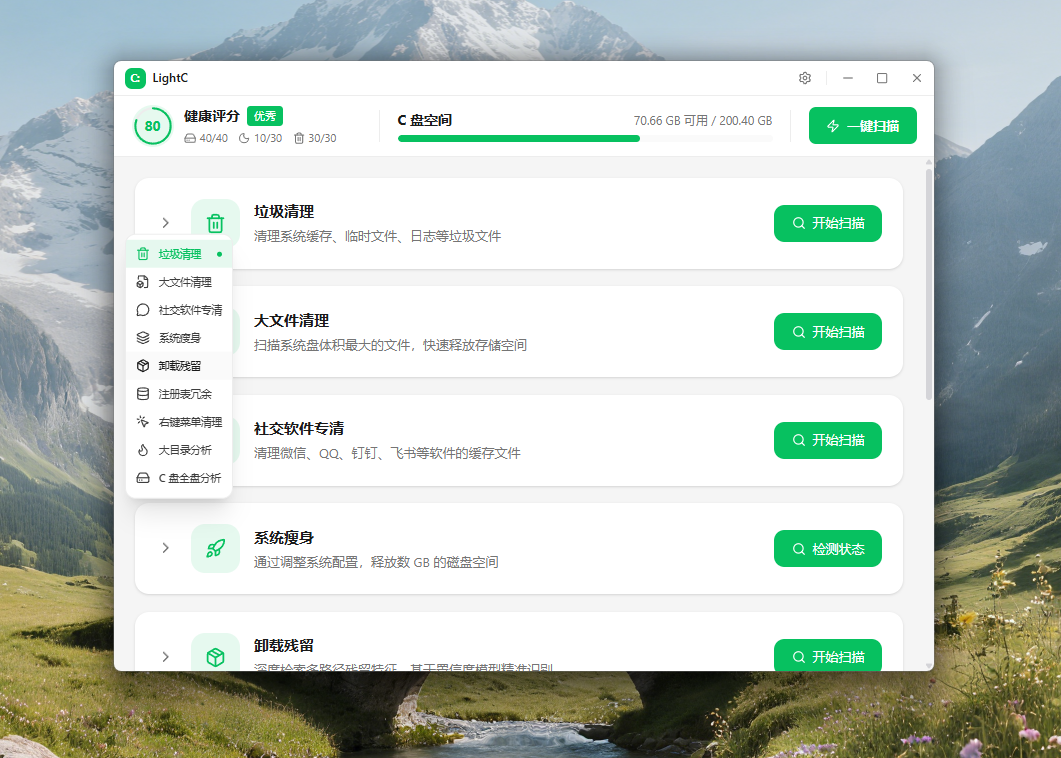
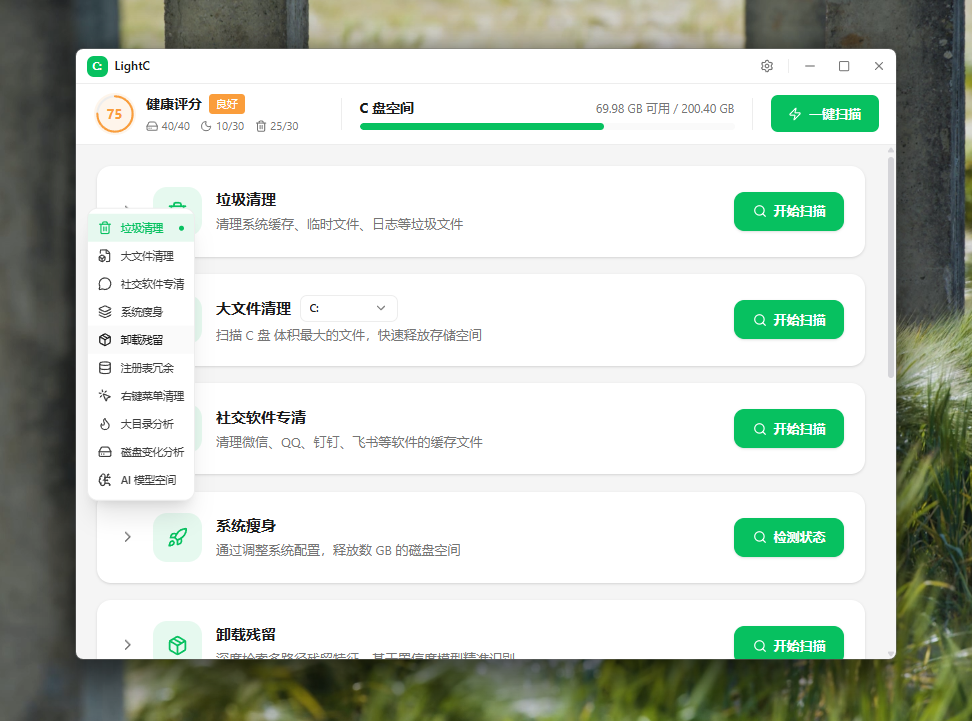
chore: 优化垃圾清理删除动画、避免低端GPU异常占用问题

diff --git a/src/components/modules/JunkCleanModule.tsx b/src/components/modules/JunkCleanModule.tsx
@@ -5,7 +5,7 @@
 
 import { useState, useCallback, useMemo, useEffect, useRef } from 'react';
 import { createPortal } from 'react-dom';
-import { Trash2, Loader2 } from 'lucide-react';
+import { Loader2, Trash2 } from 'lucide-react';
 import { ModuleCard } from '../ModuleCard';
 import { CategoryCard } from '../CategoryCard';
 import { ScanSummary } from '../ScanSummary';
@@ -255,9 +255,9 @@ export function JunkCleanModule({ layoutMode = 'cards', isPageActive = true }: M
 
   return (
     <>
-      {/* 删除进度遮罩 - 使用 Portal 渲染到 body 确保覆盖全屏 */}
+      {/* 删除进度遮罩 - 保留轻量旋转反馈，但避免恢复高成本的全屏背景模糊。 */}
       {isDeleting && createPortal(
-        <div className="fixed inset-0 z-[9999] bg-black/50 backdrop-blur-sm flex items-center justify-center">
+        <div className="fixed inset-0 z-[9999] bg-black/45 flex items-center justify-center">
           <div className="bg-[var(--bg-card)] rounded-2xl p-8 shadow-2xl flex flex-col items-center gap-4 max-w-sm mx-4">
             <div className="w-16 h-16 rounded-full bg-rose-500/10 flex items-center justify-center">
               <Loader2 className="w-8 h-8 text-rose-500 animate-spin" />
@@ -269,7 +269,7 @@ export function JunkCleanModule({ layoutMode = 'cards', isPageActive = true }: M
               </p>
             </div>
             <div className="w-full h-2 bg-[var(--bg-hover)] rounded-full overflow-hidden">
-              <div className="h-full bg-rose-500 rounded-full animate-pulse" style={{ width: '100%' }} />
+              <div className="h-full bg-rose-500 rounded-full" style={{ width: '100%' }} />
             </div>
             <p className="text-xs text-[var(--fg-faint)]">请勿关闭窗口</p>
           </div>

diff --git a/src/模块说明.md b/src/模块说明.md
@@ -91,7 +91,7 @@ src/
 - `useMemo` 缓存面包屑计算（避免每次 render 重复 split/循环）
 
 ### 垃圾清理 — [JunkCleanModule.tsx](components/modules/JunkCleanModule.tsx)
-**系统垃圾文件智能扫描与清理**。多类别（Windows 缓存、浏览器缓存、日志文件、临时文件等）。分类折叠展示 + 全选/单选删除。
+**系统垃圾文件智能扫描与清理**。多类别（Windows 缓存、浏览器缓存、日志文件、临时文件等）。分类折叠展示 + 全选/单选删除。清理中遮罩采用静态低功耗样式，避免背景模糊和连续动画拉高 WebView2 GPU 占用。
 
 ### 大文件扫描 — [BigFilesModule.tsx](components/modules/BigFilesModule.tsx)
 **多盘大文件扫描 (Top-N)**。复用统一盘符选择器切换目标分区，扫描数量由「功能设置 - 大文件清理」控制（10-500，默认 50）。实时进度推送（`large-file-scan:progress`）。风险分级标记（1-5 级）+ 多选批量删除。支持取消扫描。

diff --git a/README.md b/README.md
@@ -37,6 +37,7 @@
 - **实时进度反馈**：扫描过程中实时显示当前分类和进度
 - **扫描停止控制**：扫描过程中可随时点击停止按钮终止所有扫描任务
 - **回收站安全清空**：通过 Windows Shell API 清空回收站，支持所有驱动器的回收站文件一键清理
+- **低功耗清理遮罩**：清理执行中使用静态遮罩与提示，避免高刷新率屏幕上 WebView2 因背景模糊和连续动画产生异常 GPU 占用
 - **虚拟列表优化**：大量文件列表也能流畅滚动
 
 ### 🔍 大文件清理